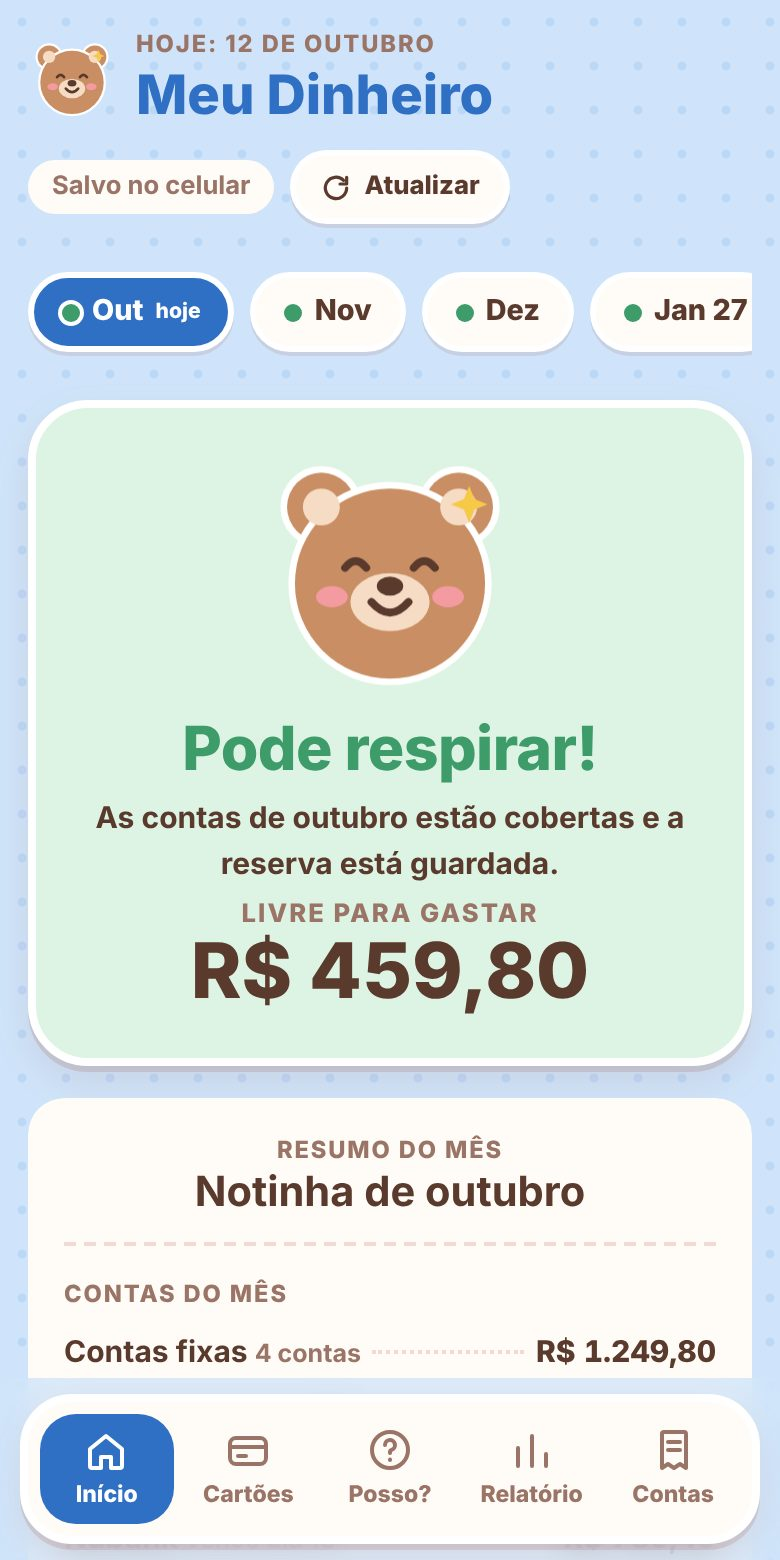
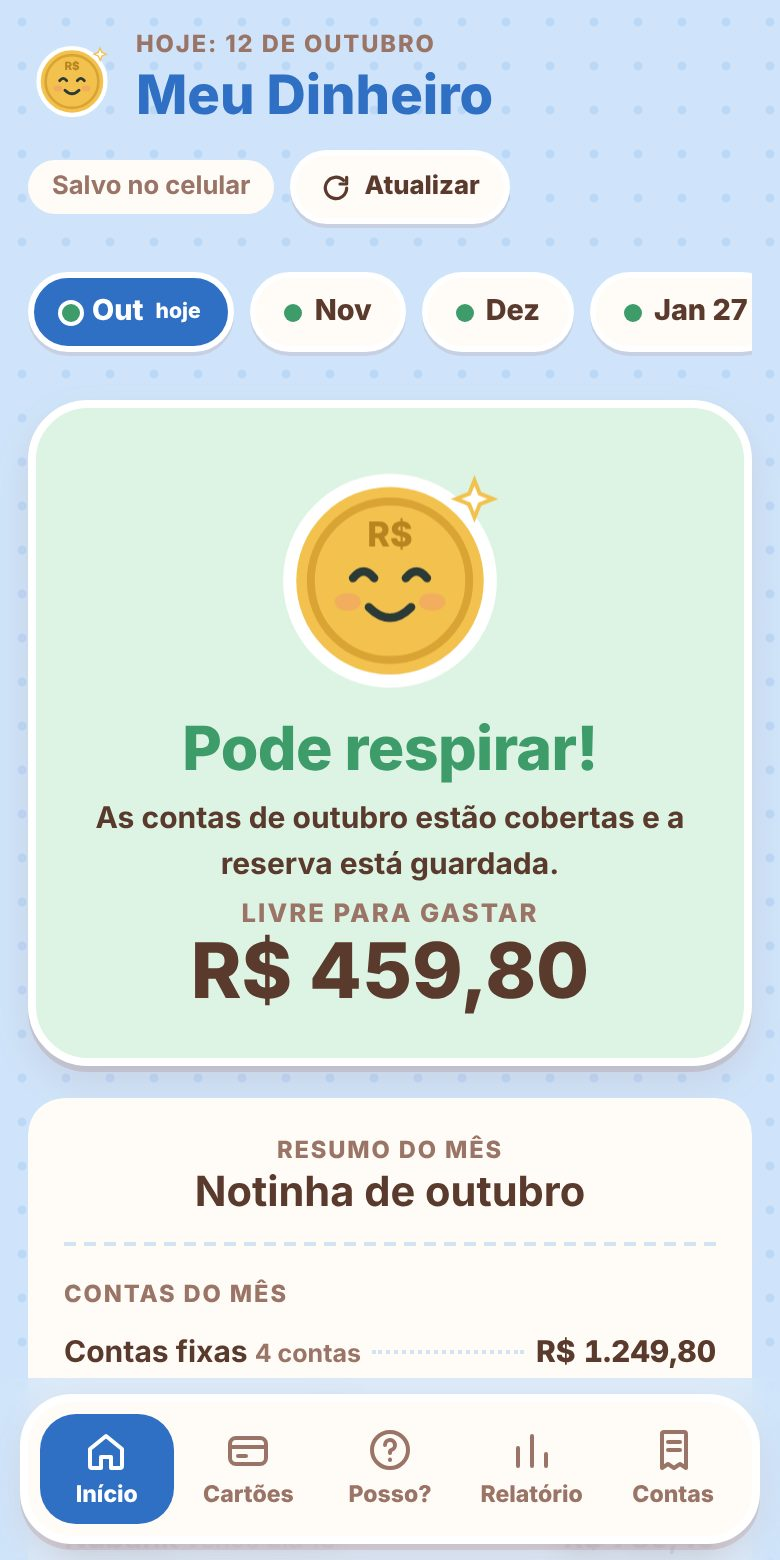
Add files via upload

Changed region(s): [[0.3385, 0.2769, 0.6462, 0.4615], [0.0308, 0.0308, 0.1538, 0.0923]]

diff --git a/index.html b/index.html
@@ -3,7 +3,7 @@
 <head>
 <meta charset="utf-8">
 <meta name="viewport" content="width=device-width,initial-scale=1,viewport-fit=cover">
-<meta name="theme-color" content="#FFD1D8">
+<meta name="theme-color" content="#CDEFE0">
 <meta name="apple-mobile-web-app-capable" content="yes">
 <meta name="mobile-web-app-capable" content="yes">
 <meta name="apple-mobile-web-app-title" content="Meu Dinheiro">
@@ -19,7 +19,7 @@ html{-webkit-text-size-adjust:100%}
 :root{padding-top:env(safe-area-inset-top,0px)}
 body{margin:0}
 img{max-width:100%}
-/* Layout: coluna única estilo caderno de adesivos — ursinho-semáforo no topo, cartões como adesivos, simulador, contas, histórico */
+/* Layout: coluna única estilo caderno de adesivos — moedinha-semáforo no topo, cartões como adesivos, simulador, contas, histórico */
 :root{
   --bg:#FFD1D8; --dots:#FFBFCA; --surface:#FFFBF7; --ink:#5B3A2E; --muted:#9A7466; --line:#F3D9D3;
   --accent:#F2718F; --accent-soft:#FFE6EC;
@@ -499,7 +499,7 @@ input[type="color"]{padding:4px;height:44px;cursor:pointer}
             <button type="button" class="swatch" data-tema="lilas" aria-label="Lilás" style="background:#7C4DDB"></button>
             <button type="button" class="swatch" data-tema="rosa" aria-label="Rosa" style="background:#F2718F"></button>
           </div></div>
-        <label>Mascote<select id="pUrso"><option value="1">Ursinho</option><option value="0">Sem mascote</option></select></label>
+        <label>Mascote<select id="pUrso"><option value="1">Moedinha</option><option value="0">Sem mascote</option></select></label>
         <label>Quem costuma te ajudar<select id="pQuem"><option value="esposo">Esposo</option><option value="esposa">Esposa</option><option value="namorado">Namorado</option><option value="namorada">Namorada</option><option value="noivo">Noivo</option><option value="noiva">Noiva</option><option value="pai">Pai</option><option value="mae">Mãe</option><option value="familia">Família</option><option value="outra">Outra renda</option></select></label>
       </div>
     </section>
@@ -524,7 +524,7 @@ input[type="color"]{padding:4px;height:44px;cursor:pointer}
 <div class="gate" id="gate" hidden>
   <div class="gate-card">
     <div class="light" id="gateBear" aria-hidden="true"></div>
-    <h2>Boas-vindas ao Meu Dinheiro!</h2>
+    <h2>Bem-vinda(o) ao Meu Dinheiro!</h2>
     <p>Digite o código de ativação que você recebeu na compra.</p>
     <form id="gateForm">
       <input id="gateCode" autocomplete="off" autocapitalize="characters" placeholder="MD-XXXX-XXXX" aria-label="Código de ativação" required>
@@ -592,7 +592,7 @@ input[type="color"]{padding:4px;height:44px;cursor:pointer}
   function applyVis(){
     const nome=(VIS.nome||'').trim()||'Meu Dinheiro';
     document.querySelector('header h1').textContent=nome; document.title=nome;
-    const g=document.querySelector('.gate-card h2'); if(g) g.textContent='Boas-vindas ao '+nome+'!';
+    const g=document.querySelector('.gate-card h2'); if(g) g.textContent='Bem-vinda(o) ao '+nome+'!';
     if(VIS.tema && VIS.tema!=='rosa') document.documentElement.dataset.tema=VIS.tema; else delete document.documentElement.dataset.tema;
     const mt=document.querySelector('meta[name="theme-color"]'); if(mt) mt.content=TEMA_COR[VIS.tema]||TEMA_COR.rosa;
     document.querySelectorAll('#pTemas [data-tema], #gateTemas [data-tema]').forEach(b=>b.setAttribute('aria-pressed', b.dataset.tema===(VIS.tema||'rosa')));
@@ -601,25 +601,27 @@ input[type="color"]{padding:4px;height:44px;cursor:pointer}
   }
   function saveVis(){ try{ localStorage.setItem('md-visual',JSON.stringify(VIS)); }catch(e){} applyVis(); }
 
+  // Mascote: Moedinha
   function bear(mood){
     if(!VIS.urso) return simpleFace(mood);
-    const mouth = {ok:'<path d="M43 62 Q50 70 57 62" fill="none" stroke="#5B3A2E" stroke-width="3" stroke-linecap="round"/>',
-      warn:'<path d="M44 64 H56" stroke="#5B3A2E" stroke-width="3" stroke-linecap="round"/>',
-      stop:'<path d="M43 67 Q50 60 57 67" fill="none" stroke="#5B3A2E" stroke-width="3" stroke-linecap="round"/>',
-      none:'<path d="M45 63 Q50 67 55 63" fill="none" stroke="#5B3A2E" stroke-width="3" stroke-linecap="round"/>',
-      love:'<path d="M43 62 Q50 70 57 62" fill="none" stroke="#5B3A2E" stroke-width="3" stroke-linecap="round"/>'}[mood];
-    const heart = (x,y,s)=>`<path transform="translate(${x} ${y}) scale(${s})" d="M0 3C0-1 5-1 5 3 5-1 10-1 10 3 10 7 5 10 5 11 5 10 0 7 0 3z" fill="#F2718F"/>`;
-    const eyes = mood==='ok' ? '<path d="M33 49 Q37 44 41 49 M59 49 Q63 44 67 49" fill="none" stroke="#5B3A2E" stroke-width="3" stroke-linecap="round"/>'
-      : mood==='love' ? heart(31,43,1.2)+heart(57,43,1.2)
-      : '<circle cx="37" cy="49" r="4" fill="#5B3A2E"/><circle cx="63" cy="49" r="4" fill="#5B3A2E"/><circle cx="38.3" cy="47.6" r="1.3" fill="#fff"/><circle cx="64.3" cy="47.6" r="1.3" fill="#fff"/>';
-    const extra = mood==='stop' ? '<path d="M72 34 q4 8 0 11 q-4-3 0-11z" fill="#8FD3F4"/>' : mood==='warn' ? '<path d="M28 38 L36 41 M72 38 L64 41" stroke="#5B3A2E" stroke-width="2.5" stroke-linecap="round"/>' : mood==='ok' ? '<path d="M80 18 l2 5 5 2-5 2-2 5-2-5-5-2 5-2z" fill="#F7C948"/>' : mood==='love' ? heart(78,8,1.4)+heart(6,4,1) : '';
-    return `<svg viewBox="0 0 100 100"><g stroke="#fff" stroke-width="5" paint-order="stroke">
-      <circle cx="24" cy="26" r="13" fill="var(--bear)"/><circle cx="76" cy="26" r="13" fill="var(--bear)"/>
-      <circle cx="50" cy="55" r="36" fill="var(--bear)"/></g>
-      <circle cx="24" cy="26" r="7" fill="var(--bear-in)"/><circle cx="76" cy="26" r="7" fill="var(--bear-in)"/>
-      <ellipse cx="50" cy="62" rx="15" ry="11" fill="var(--bear-in)"/>
-      <ellipse cx="50" cy="56" rx="5" ry="3.6" fill="#5B3A2E"/>
-      <ellipse cx="28" cy="60" rx="6" ry="4" fill="var(--blush)" opacity=".8"/><ellipse cx="72" cy="60" rx="6" ry="4" fill="var(--blush)" opacity=".8"/>
+    const I='#2B3A36';
+    const heart=(x,y,sc)=>`<path transform="translate(${x} ${y}) scale(${sc})" d="M0 3C0-1 5-1 5 3 5-1 10-1 10 3 10 7 5 10 5 11 5 10 0 7 0 3z" fill="#E5484D"/>`;
+    const eyes = mood==='ok' ? `<path d="M36 53 Q40 48 44 53 M56 53 Q60 48 64 53" fill="none" stroke="${I}" stroke-width="3.2" stroke-linecap="round"/>`
+      : mood==='love' ? heart(34,47,1.1)+heart(55,47,1.1)
+      : `<circle cx="40" cy="52" r="3.8" fill="${I}"/><circle cx="60" cy="52" r="3.8" fill="${I}"/><circle cx="41.2" cy="50.7" r="1.2" fill="#fff"/><circle cx="61.2" cy="50.7" r="1.2" fill="#fff"/>`;
+    const mouth = {ok:`<path d="M42 64 Q50 72 58 64" fill="none" stroke="${I}" stroke-width="3.2" stroke-linecap="round"/>`,
+      love:`<path d="M42 64 Q50 72 58 64" fill="none" stroke="${I}" stroke-width="3.2" stroke-linecap="round"/>`,
+      none:`<path d="M44 65 Q50 69 56 65" fill="none" stroke="${I}" stroke-width="3.2" stroke-linecap="round"/>`,
+      warn:`<path d="M44 66 H56" stroke="${I}" stroke-width="3.2" stroke-linecap="round"/>`,
+      stop:`<path d="M42 70 Q50 62 58 70" fill="none" stroke="${I}" stroke-width="3.2" stroke-linecap="round"/>`}[mood]||'';
+    const extra = mood==='stop' ? '<path d="M77 30 q4 8 0 11 q-4-3 0-11z" fill="#7CC7EE"/>'
+      : mood==='warn' ? `<path d="M33 43 L41 45 M67 43 L59 45" stroke="${I}" stroke-width="2.6" stroke-linecap="round"/>`
+      : mood==='ok' ? '<path d="M82 16 l2 5 5 2-5 2-2 5-2-5-5-2 5-2z" fill="#fff" stroke="#F2C14E" stroke-width="1.5"/>'
+      : mood==='love' ? heart(78,10,1.3) : '';
+    return `<svg viewBox="0 0 100 100"><circle cx="50" cy="54" r="38" fill="#F2C14E" stroke="var(--sticker)" stroke-width="5"/>
+      <circle cx="50" cy="54" r="30" fill="none" stroke="#D9A433" stroke-width="3"/>
+      <ellipse cx="34" cy="62" rx="5" ry="3.4" fill="#F29E6B" opacity=".55"/><ellipse cx="66" cy="62" rx="5" ry="3.4" fill="#F29E6B" opacity=".55"/>
+      <text x="50" y="41" text-anchor="middle" font-family="Baloo 2,Arial Black,Arial" font-weight="800" font-size="13" fill="#B88420">R$</text>
       ${eyes}${mouth}${extra}</svg>`;
   }
 

diff --git a/conheca.html b/conheca.html
@@ -5,7 +5,7 @@
 <meta name="viewport" content="width=device-width,initial-scale=1">
 <meta name="theme-color" content="#EEF4F1">
 <title>Meu Dinheiro: o app que avisa antes de você se enrolar</title>
-<meta name="description" content="Controle seus cartões, faturas e salário no celular. O ursinho avisa quando ainda dá para comprar e quando é hora de parar.">
+<meta name="description" content="Controle seus cartões, faturas e salário no celular. A Moedinha avisa quando ainda dá para comprar e quando é hora de parar.">
 <link rel="icon" href="icon-192.png" type="image/png">
 <link rel="preconnect" href="https://fonts.googleapis.com">
 <link rel="stylesheet" href="https://fonts.googleapis.com/css2?family=Baloo+2:wght@600;700;800&family=Nunito:wght@400;600;700;800&display=swap">
@@ -129,14 +129,14 @@ footer{text-align:center;padding:30px 16px 50px;color:var(--muted);font-weight:7
   <div class="hero">
     <div>
       <h1>Saiba <em>antes</em> de passar o cartão se ainda dá para comprar.</h1>
-      <p class="lead">Coloque o salário, as contas e as faturas. O ursinho mostra quanto ainda está livre no mês e avisa quando é hora de parar.</p>
+      <p class="lead">Coloque o salário, as contas e as faturas. A Moedinha mostra quanto ainda está livre no mês e avisa quando é hora de parar.</p>
       <div class="ctas">
         <a class="btn buy" href="#preco">Quero o meu</a>
         <a class="btn ghost" href="#como">Ver como funciona</a>
       </div>
       <div class="note">Pagamento único. Funciona no celular, sem mensalidade.</div>
     </div>
-    <div class="phone"><img src="print-inicio-verde.jpg" alt="Tela inicial do app mostrando o ursinho feliz e o valor livre para gastar no mês" width="390" height="780"></div>
+    <div class="phone"><img src="print-inicio-verde.jpg" alt="Tela inicial do app mostrando a Moedinha feliz e o valor livre para gastar no mês" width="390" height="780"></div>
   </div>
 </div>
 
@@ -165,7 +165,7 @@ footer{text-align:center;padding:30px 16px 50px;color:var(--muted);font-weight:7
 
 <section>
   <div class="wrap">
-    <div class="sec-head"><h2>Do seu jeito</h2><p>Escolha a cor do app, dê o nome que quiser e decida se o ursinho fica ou sai.</p></div>
+    <div class="sec-head"><h2>Do seu jeito</h2><p>Escolha a cor do app, dê o nome que quiser e decida se a Moedinha fica ou sai.</p></div>
     <div class="colors">
       <figure><div class="mini"><img src="print-inicio-verde.jpg" alt="App na cor verde" width="390" height="780"></div><figcaption><i style="background:#1F8A62"></i>Verde</figcaption></figure>
       <figure><div class="mini"><img src="print-inicio-azul.jpg" alt="App na cor azul" width="390" height="780"></div><figcaption><i style="background:#2F6FC4"></i>Azul</figcaption></figure>
@@ -181,7 +181,7 @@ footer{text-align:center;padding:30px 16px 50px;color:var(--muted);font-weight:7
     <div class="steps">
       <div class="card"><h3>Compre</h3><p>Você recebe o link do app e o seu código de ativação.</p></div>
       <div class="card"><h3>Ative no celular</h3><p>Abra o link, digite o código e toque em "Adicionar à tela inicial". Ele vira um ícone, igual a um app.</p></div>
-      <div class="card"><h3>Coloque suas contas</h3><p>Salário, contas fixas e faturas. Em 5 minutos o ursinho já mostra como está o seu mês.</p></div>
+      <div class="card"><h3>Coloque suas contas</h3><p>Salário, contas fixas e faturas. Em 5 minutos a Moedinha já mostra como está o seu mês.</p></div>
     </div>
   </div>
 </section>

diff --git a/sw.js b/sw.js
@@ -1,5 +1,5 @@
 // Meu Dinheiro — funciona sem internet
-const CACHE = 'meu-dinheiro-v3';
+const CACHE = 'meu-dinheiro-v4';
 const ARQUIVOS = ['./', './index.html', './manifest.webmanifest', './icon-192.png', './icon-512.png', './apple-touch-icon.png'];
 
 self.addEventListener('install', e => {
